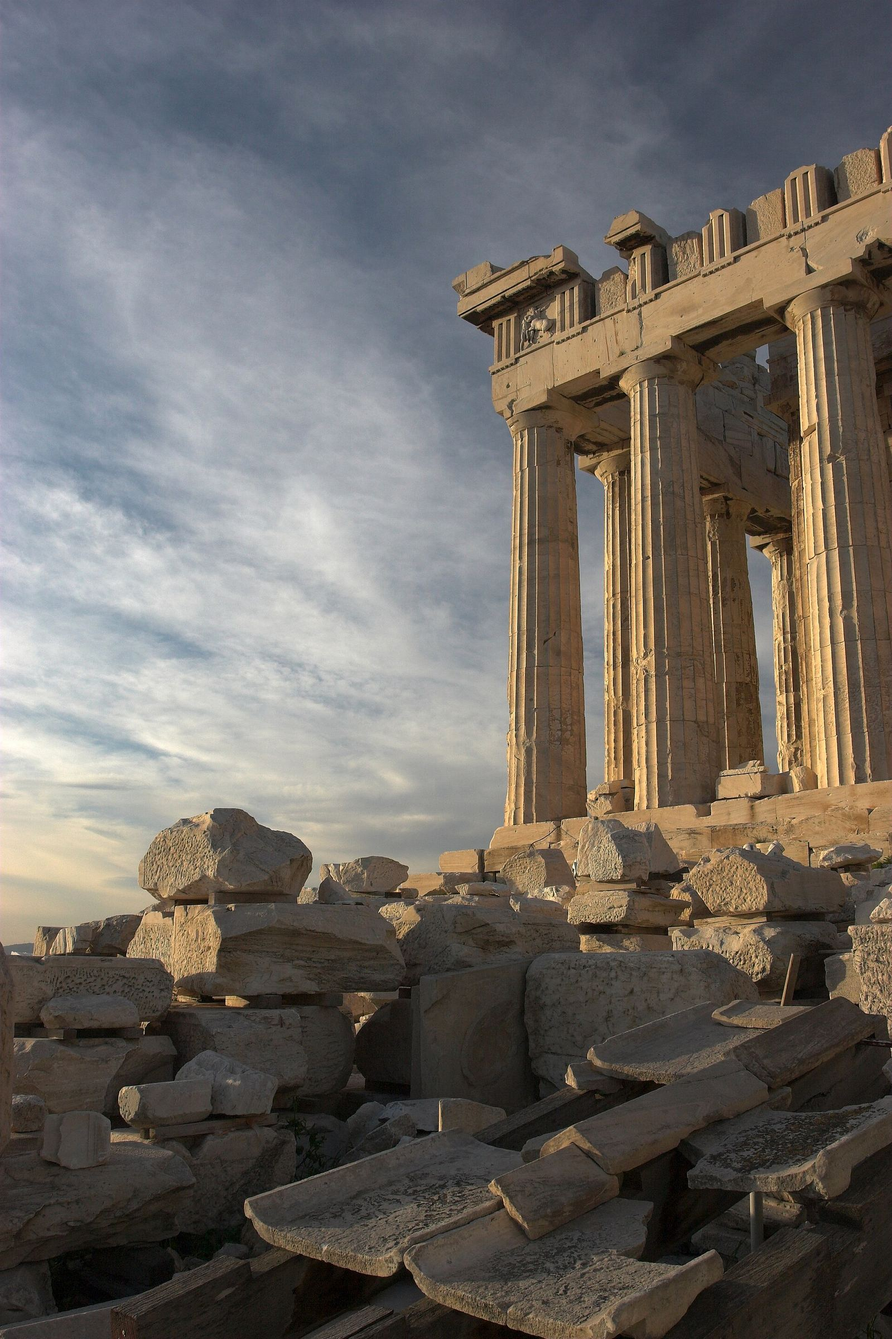
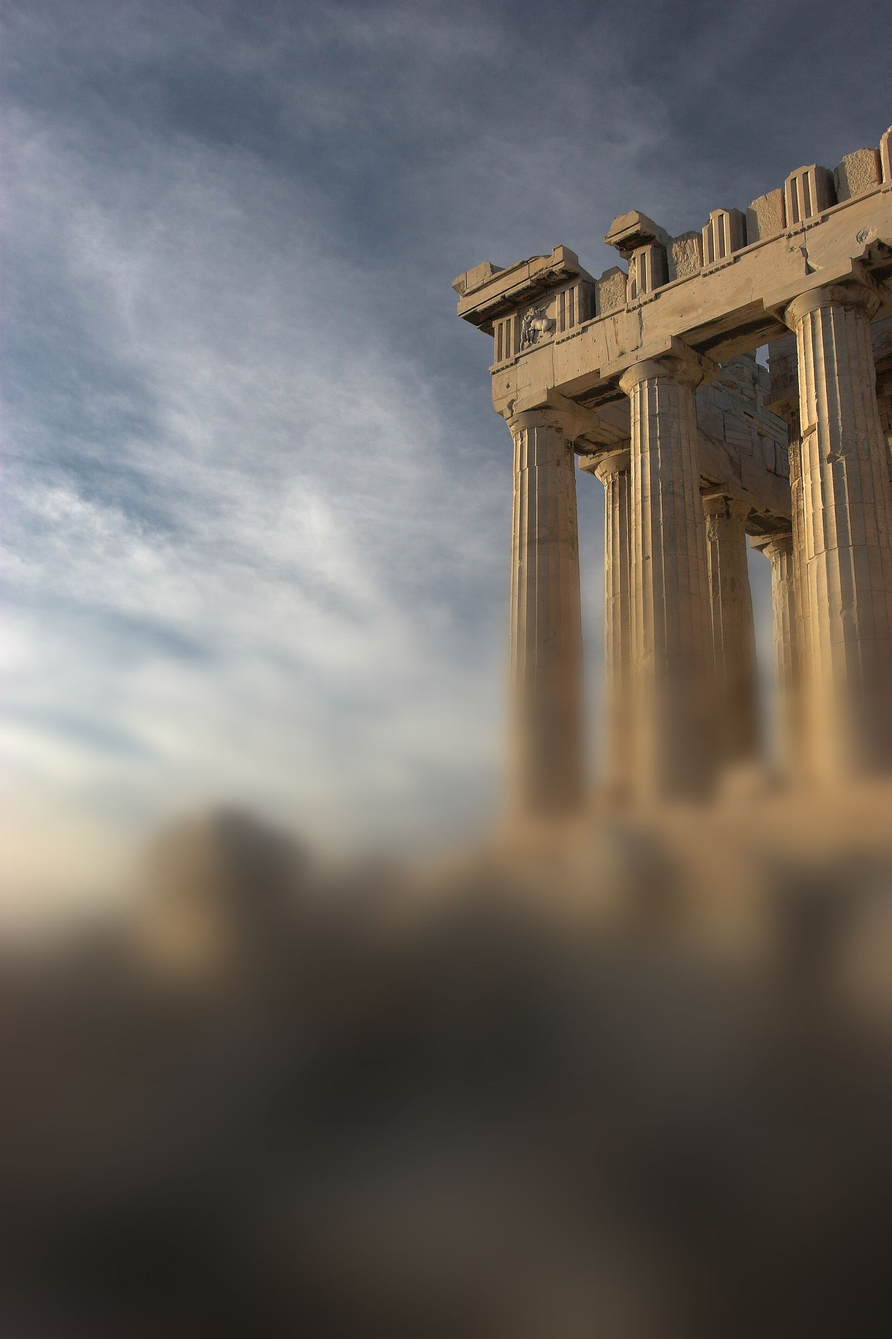
Smooth destination transitions: GPU-only zoom, baked blur, balanced easing
- Card-to-page zoom uses only transform, clip-path and opacity (no layout per frame)
- Depth via a dim layer instead of blurring the whole page live
- Progressive blur baked into background images (no runtime filters, smaller files)
- Balanced easing without the long static tail; reveal starts at 90%
- Preload the background on first touch; cards share the background focal point

Claude-Session: https://claude.ai/code/session_01Cb6r89n6NMiSowsZUC7aWX

Changed region(s): [[0.0, 0.4062, 1.0, 1.0], [0.1226, 0.5312, 0.1839, 0.5625], [0.0919, 0.5625, 0.1226, 0.5938]]

diff --git a/index.html b/index.html
@@ -78,7 +78,7 @@ const CONFIG = {
 
   // Προορισμοί: φωτογραφία, πληροφορίες και εμπειρίες. Οι φωτογραφίες είναι στον φάκελο images/
   regions: [
-    { id: "athens", el: "Αθήνα", en: "Athens", coords: "37.98° N · 23.73° E", image: "images/athens.jpg", background: "images/bg-athens.jpg",
+    { id: "athens", el: "Αθήνα", en: "Athens", coords: "37.98° N · 23.73° E", image: "images/athens.jpg", background: "images/bg-athens.jpg", backgroundBlurred: true,
       intro: {
         el: "Η πόλη της Ακρόπολης, των ταρατσών με θέα και της Αθηναϊκής Ριβιέρας. Ιδανική για ένα city break με ιστορία, γαστρονομία και θάλασσα σε απόσταση μισής ώρας.",
         en: "The city of the Acropolis, rooftop views and the Athens Riviera. Ideal for a city break with history, great food and the sea half an hour away." },
@@ -100,7 +100,7 @@ const CONFIG = {
           en: { title: "Lycabettus at dusk", text: "The best view over Athens, with cocktails as the city lights come on." } },
       ] },
 
-    { id: "zakynthos", el: "Ζάκυνθος", en: "Zakynthos", coords: "37.78° N · 20.90° E", image: "images/zakynthos.jpg", background: "images/bg-zakynthos.jpg",
+    { id: "zakynthos", el: "Ζάκυνθος", en: "Zakynthos", coords: "37.78° N · 20.90° E", image: "images/zakynthos.jpg", background: "images/bg-zakynthos.jpg", backgroundBlurred: true,
       intro: {
         el: "Το νησί του Ναυαγίου, των Γαλάζιων Σπηλιών και των θαλάσσιων χελωνών. Τα καλύτερα σημεία του φαίνονται από τη θάλασσα, με ιδιωτικό σκάφος.",
         en: "The island of Navagio, the Blue Caves and the sea turtles. Its best spots are seen from the water, on a private boat." },
@@ -122,7 +122,7 @@ const CONFIG = {
           en: { title: "Gerakas & sea turtles", text: "The protected beach where Caretta caretta turtles nest, with a guide who follows the marine park rules." } },
       ] },
 
-    { id: "crete", el: "Κρήτη", en: "Crete", coords: "35.34° N · 25.13° E", image: "images/crete.jpg", background: "images/bg-crete.jpg", backgroundPosition: "57% 50%",
+    { id: "crete", el: "Κρήτη", en: "Crete", coords: "35.34° N · 25.13° E", image: "images/crete.jpg", background: "images/bg-crete.jpg", backgroundBlurred: true, backgroundPosition: "57% 50%",
       intro: {
         el: "Το μεγαλύτερο ελληνικό νησί: μινωικά ανάκτορα, φαράγγια, λιμνοθάλασσες και μια από τις καλύτερες κουζίνες της Μεσογείου.",
         en: "Greece's largest island: Minoan palaces, gorges, lagoons and one of the best kitchens in the Mediterranean." },
@@ -530,11 +530,13 @@ html.on-photo .topbar .wordmark svg { color: #fff; }
 .region-top .eyebrow { color: rgba(255, 255, 255, .92); text-shadow: 0 1px 8px rgba(0, 0, 0, .35); }
 .back { height: 2.4rem; padding: 0 .95rem 0 .7rem; border-radius: 999px; display: inline-flex; align-items: center; gap: .35rem; font-size: .82rem; font-weight: 600; }
 .back svg { width: 1rem; height: 1rem; transform: scaleX(-1); }
-.region-title { padding: 33vh 0 1.4rem; padding-top: 33svh; color: #fff; text-shadow: 0 2px 20px rgba(0, 0, 0, .38); animation: riseSoft 1.1s .75s cubic-bezier(.16,1,.3,1) both; }
+.region-title { padding: 33vh 0 1.4rem; padding-top: 33svh; color: #fff; text-shadow: 0 2px 20px rgba(0, 0, 0, .38); opacity: 0; }
 .region-title h1 { font-family: var(--font-display); font-weight: 400; font-size: 3.2rem; line-height: 1; margin: 0; text-wrap: balance; }
 .region-title span { display: block; font-size: .72rem; letter-spacing: .14em; margin-top: .6rem; opacity: .92; font-variant-numeric: tabular-nums; }
-.region-panel { border-radius: 2rem; padding: 1.4rem 1.2rem 1.3rem; overflow: hidden; animation: riseSoft 1.2s .9s cubic-bezier(.16,1,.3,1) both; }
-@keyframes riseSoft { from { opacity: .001; transform: translateY(1.4rem); filter: blur(6px); } to { opacity: 1; transform: none; filter: none; } }
+.region-panel { border-radius: 2rem; padding: 1.4rem 1.2rem 1.3rem; overflow: hidden; opacity: 0; }
+#regionView.revealed .region-title { animation: riseSoft .9s cubic-bezier(.16,1,.3,1) both; }
+#regionView.revealed .region-panel { animation: riseSoft 1s .12s cubic-bezier(.16,1,.3,1) both; }
+@keyframes riseSoft { from { opacity: 0; transform: translate3d(0, 1.4rem, 0); } to { opacity: 1; transform: none; } }
 .region-panel .section { margin-top: 1.9rem; }
 .region-panel .rail { margin-inline: -1.2rem; padding-inline: 1.2rem; }
 .region-panel .btn-block { margin-top: 1.4rem; }
@@ -544,7 +546,11 @@ html.on-photo .topbar .wordmark svg { color: #fff; }
 .fact small { display: block; font-size: .6rem; letter-spacing: .1em; text-transform: uppercase; color: var(--muted); font-weight: 600; }
 .fact b { display: block; font-size: .8rem; font-weight: 600; margin-top: .2rem; line-height: 1.3; }
 .sheet-photo { aspect-ratio: 16 / 10; border-radius: 1.4rem; margin-bottom: 1.1rem; }
-.flip-clone { position: fixed; z-index: 25; object-fit: cover; pointer-events: none; margin: 0; will-change: left, top, width, height, border-radius, opacity; backface-visibility: hidden; }
+.flip-clone { position: fixed; z-index: 25; object-fit: cover; pointer-events: none; margin: 0; }
+.zoom-clone { position: fixed; left: 0; top: 0; z-index: 26; object-fit: cover; pointer-events: none; margin: 0; max-width: none;
+  transform-origin: 0 0; will-change: transform, clip-path, opacity; backface-visibility: hidden; }
+.zoom-scrim { position: fixed; inset: 0; z-index: 25; pointer-events: none; background: rgba(6, 14, 26, .55); opacity: 0; will-change: opacity; }
+.dest .photo img { object-position: var(--focal, 50% 50%); }
 .privacy { margin: -.4rem 0 0; font-size: .72rem; color: var(--muted); line-height: 1.5; }
 .ak-loading .app, .ak-loading .nav-wrap { opacity: 0; }
 .app, .nav-wrap { transition: opacity .4s ease; }
@@ -964,6 +970,7 @@ html.ak-splash .app, html.ak-splash .nav-wrap { visibility: hidden; }
   const newRef = () => "AK-" + Array.from(crypto.getRandomValues(new Uint8Array(8)), b => "ABCDEFGHJKLMNPQRSTUVWXYZ23456789"[b % 32]).join("");
   const state = { services: [], region: null, guests: 2, ref: newRef(), sent: false };
   let currentRegion = null, pendingFlip = null;
+  const focal = (r) => /^[\d.]+% [\d.]+%$/.test(r?.backgroundPosition || "") ? r.backgroundPosition : "50% 50%";
   const img = (src, alt) => src && /^(https:\/\/|images\/|blob:)/.test(src) ? `<img src="${esc(src)}" alt="${esc(alt)}" loading="eager" decoding="async" onerror="this.remove()">` : "";
 
   /* ── Σελίδα προορισμού ──────────────────────────────────── */
@@ -971,10 +978,12 @@ html.ak-splash .app, html.ak-splash .nav-wrap { visibility: hidden; }
     const r = CONFIG.regions.find(x => x.id === id); if (!r) return;
     const bgSrc = r.background || r.image;                // φόντο σε υψηλή ανάλυση, αλλιώς η φωτογραφία της κάρτας
     const bg = $("#regionPhoto"), src = bgSrc && /^(https:\/\/|images\/|blob:)/.test(bgSrc) ? bgSrc : "";
-    if (bg.dataset.src !== src) {                       // φόντο: καθαρή φωτογραφία + 3 επίπεδα θολώματος
+    if (bg.dataset.src !== src) {
       bg.dataset.src = src;
-      const pos = /^[\d.]+% [\d.]+%$/.test(r.backgroundPosition || "") ? ` style="object-position:${r.backgroundPosition}"` : "";   // ποιο σημείο μένει στο κέντρο
-      bg.innerHTML = (src ? ["sharp", "b1", "b2", "b3"].map(c => `<img class="${c}" src="${esc(src)}" alt="" decoding="async"${pos}>`).join("") : "") + `<span class="shade"></span>`;
+      const pos = ` style="object-position:${focal(r)}"`;   // ποιο σημείο μένει στο κέντρο
+      // Οι αρχικές φωτογραφίες έχουν το θόλωμα έτοιμο μέσα τους (γρήγορο). Για νέες φωτογραφίες από το CMS, θόλωμα με CSS.
+      const layers = r.backgroundBlurred && bgSrc === r.background ? ["sharp"] : ["sharp", "b1", "b2", "b3"];
+      bg.innerHTML = (src ? layers.map(c => `<img class="${c}" src="${esc(src)}" alt="" decoding="async"${pos}>`).join("") : "") + `<span class="shade"></span>`;
     }
     $("#regionView").innerHTML = `
       <div class="region-top">
@@ -1012,7 +1021,7 @@ html.ak-splash .app, html.ak-splash .nav-wrap { visibility: hidden; }
 
   /* Zoom: η φωτογραφία «μεγαλώνει» από την κάρτα και κεντράρεται στη νέα σελίδα */
   // Ρυθμίσεις μετάβασης (ms): μεγαλύτερες τιμές = πιο αργή, πιο «βελούδινη» κίνηση
-  const FLIP = { open: 1300, back: 1100, fade: 450, easing: "cubic-bezier(.16,1,.3,1)" };
+  const FLIP = { open: 1000, back: 900, fade: 420, easing: "cubic-bezier(.35,.1,.25,1)" };
   function flip(fromBox, toBox, fromRect, duration = FLIP.open) {
     const fromImg = fromBox?.querySelector("img"), toImg = toBox?.querySelector("img");
     if (!fromImg || !toImg || matchMedia("(prefers-reduced-motion: reduce)").matches || !toImg.animate) return;
@@ -1033,88 +1042,92 @@ html.ak-splash .app, html.ak-splash .nav-wrap { visibility: hidden; }
     anim.onfinish = done; anim.oncancel = () => { toImg.style.opacity = ""; c.remove(); };
   }
 
-  /* Άνοιγμα προορισμού: η κάρτα «σηκώνεται» από το σημείο όπου βρίσκεται και μεγαλώνει
-     σε όλη την οθόνη, ενώ η αρχική από πίσω απομακρύνεται (βάθος), όπως το άνοιγμα εφαρμογής στο iPhone. */
+  /* Μετάβαση κάρτα ⇄ σελίδα προορισμού (όπως το άνοιγμα εφαρμογής στο iPhone).
+     Κινούνται ΜΟΝΟ transform (μετακίνηση/κλίμακα), clip-path και opacity, που τα εκτελεί η
+     κάρτα γραφικών: καμία αλλαγή μεγέθους ή θολώματος σε πραγματικό χρόνο, άρα χωρίς «κόλλημα».
+     Ένα αντίγραφο της φωτογραφίας σε μέγεθος οθόνης «κόβεται» και μικραίνει ώστε να ταιριάζει
+     ακριβώς στην κάρτα, και ανοίγει σαν παράθυρο. */
   let opening = false;
+  const zoomScrim = () => { const d = document.createElement("div"); d.className = "zoom-scrim"; document.body.appendChild(d); return d; };
+  function windowFrames(C, radius, W, H, offY) {
+    const s = Math.max(C.width / W, C.height / H);                    // κλίμακα ώστε η εικόνα να «γεμίζει» την κάρτα
+    const ix = (W - C.width / s) / 2, iy = (H - C.height / s) / 2;     // αποκοπή στο σχήμα της κάρτας
+    const tx = C.left + C.width / 2 - (W * s) / 2, ty = C.top + C.height / 2 - (H * s) / 2;
+    return [
+      { transform: `translate3d(${tx}px, ${ty}px, 0) scale(${s})`, clipPath: `inset(${iy}px ${ix}px ${iy}px ${ix}px round ${radius / s}px)` },
+      { transform: `translate3d(0px, ${offY}px, 0) scale(1)`, clipPath: `inset(0px 0px 0px 0px round 0px)` },
+    ];
+  }
+  function makeClone(src, r, W, H) {
+    const c = document.createElement("img");
+    c.className = "zoom-clone"; c.alt = ""; c.src = src;
+    Object.assign(c.style, { width: W + "px", height: H + "px", objectPosition: focal(r) });
+    document.body.appendChild(c);
+    return c;
+  }
+  const bgHeight = () => Math.round(innerHeight * 1.18);
+  function preloadBg(id) {                                             // ξεκινά να φορτώνει από το πρώτο άγγιγμα
+    const r = CONFIG.regions.find(x => x.id === id), src = r?.background || r?.image;
+    if (!src || preloadBg[src]) return; const i = new Image(); i.decoding = "async"; i.src = src; preloadBg[src] = i.decode?.().catch(() => {});
+  }
   function openRegion(card) {
     const id = card.dataset.region, r = CONFIG.regions.find(x => x.id === id);
     const photo = card.querySelector(".photo"), im = photo?.querySelector("img");
     if (opening) return;
     if (!r || !im || !im.animate || matchMedia("(prefers-reduced-motion: reduce)").matches) { location.hash = id; return; }
-    opening = true;
-    const hi = r.background || r.image; if (hi) { const pre = new Image(); pre.src = hi; }      // προφόρτωση υψηλής ανάλυσης
-    const a = photo.getBoundingClientRect();                                                    // η θέση της κάρτας ΤΩΡΑ
-    const ra = getComputedStyle(photo).borderTopLeftRadius, pa = getComputedStyle(im).objectPosition;
-    const pb = /^[\d.]+% [\d.]+%$/.test(r.backgroundPosition || "") ? r.backgroundPosition : "50% 50%";
-    const H = Math.max(innerHeight * 1.18, innerHeight);
-    const c = im.cloneNode(); c.removeAttribute("onerror"); c.className = "flip-clone"; c.removeAttribute("style");
-    document.body.appendChild(c);
-    card.style.visibility = "hidden";                                                           // η ίδια η κάρτα σηκώνεται
-    const box = (x, y, w, h, rad, pos) => ({ left: x + "px", top: y + "px", width: w + "px", height: h + "px", borderRadius: rad, objectPosition: pos });
-    const grow = c.animate([box(a.left, a.top, a.width, a.height, ra, pa), box(0, 0, innerWidth, H, "0px", pb)],
-      { duration: FLIP.open, easing: FLIP.easing, fill: "forwards" });
-    // βάθος: η αρχική μεγεθύνεται ελαφρά προς την κάρτα, θολώνει και σκουραίνει
-    const app = document.querySelector(".app"), nav = document.querySelector(".nav-wrap");
-    app.style.transformOrigin = `${a.left + a.width / 2}px ${a.top + a.height / 2 + scrollY}px`;
-    const depth = [{ transform: "none", filter: "none", opacity: 1 }, { transform: "scale(1.08)", filter: "blur(8px)", opacity: .35 }];
+    opening = true; preloadBg(id);
+    const C = photo.getBoundingClientRect(), rad = parseFloat(getComputedStyle(photo).borderTopLeftRadius) || 0;
+    const W = innerWidth, H = bgHeight();
+    const c = makeClone(im.currentSrc || im.src, r, W, H), sc = zoomScrim();
+    card.style.visibility = "hidden";
     const opts = { duration: FLIP.open, easing: FLIP.easing, fill: "forwards" };
-    const da = app.animate(depth, opts), dn = nav.animate([{ opacity: 1 }, { opacity: 0 }], { ...opts, duration: FLIP.open * .6 });
-    const finish = () => {
-      pendingFlip = { clone: c, cleanup: () => { da.cancel(); dn.cancel(); app.style.transformOrigin = ""; card.style.visibility = ""; opening = false; } };
-      location.hash = id;
-    };
-    grow.onfinish = finish;
-    grow.oncancel = () => { c.remove(); da.cancel(); dn.cancel(); card.style.visibility = ""; opening = false; };
+    const grow = c.animate(windowFrames(C, rad, W, H, 0), opts);
+    const dim = sc.animate([{ opacity: 0 }, { opacity: 1 }], opts);   // βάθος: η αρχική σκουραίνει από πίσω
+    // η σελίδα αρχίζει να εμφανίζεται στο τελευταίο 10% της κίνησης: χωρίς «νεκρό» χρόνο
+    const t = setTimeout(() => { pendingFlip = { clone: c, scrim: sc, card }; location.hash = id; }, FLIP.open * .9);
+    grow.oncancel = () => { clearTimeout(t); c.remove(); sc.remove(); card.style.visibility = ""; opening = false; };
   }
-  function revealRegion(clone, bg) {
-    const f = pendingFlipCleanup; pendingFlipCleanup = null; f?.();
-    const sharp = bg.querySelector("img.sharp");
-    bg.classList.add("settling");
-    const fadeOut = () => {
-      const fa = clone.animate([{ opacity: 1 }, { opacity: 0 }], { duration: FLIP.fade + 250, easing: "ease-out", fill: "forwards" });
-      fa.onfinish = fa.oncancel = () => clone.remove();
-      setTimeout(() => bg.classList.remove("settling"), 120);                 // το θόλωμα απλώνεται καθώς σβήνει ο κλώνος
+  function revealRegion(f, bg) {
+    const view = $("#regionView"), sharp = bg.querySelector("img.sharp");
+    f.card.style.visibility = "";
+    let done = false;
+    const go = () => {
+      if (done) return; done = true;
+      f.scrim.remove();
+      const fo = f.clone.animate([{ opacity: 1 }, { opacity: 0 }], { duration: FLIP.fade, easing: "ease-out", fill: "forwards" });
+      fo.onfinish = fo.oncancel = () => { f.clone.remove(); opening = false; };
+      view.classList.add("revealed");                                // ο τίτλος και το πάνελ ανεβαίνουν
     };
-    if (!sharp) return fadeOut();
-    let done = false; const go = () => { if (!done) { done = true; fadeOut(); } };
-    (sharp.decode ? sharp.decode() : Promise.resolve()).then(go, go);         // περιμένουμε να φορτώσει η καθαρή φωτογραφία
-    setTimeout(go, 1500);
+    (preloadBg[bg.dataset.src] || sharp?.decode?.() || Promise.resolve()).then(go, go);
+    setTimeout(go, 1200);
   }
-  let pendingFlipCleanup = null;
-
-  /* Επιστροφή (Back): η φωτογραφία ξαναγίνεται καθαρή, μικραίνει πίσω στη θέση της κάρτας της
-     και η αρχική έρχεται μπροστά από το βάθος (το ακριβώς αντίστροφο του ανοίγματος). */
   function closeRegion() {
-    const id = currentRegion, sharp = $("#regionPhoto img.sharp");
+    const id = currentRegion, r = CONFIG.regions.find(x => x.id === id);
+    const cardImg = document.querySelector(`#regions [data-region="${id}"] img`), bg = $("#regionPhoto");
     if (opening) return;
-    if (!id || !sharp || !sharp.animate || matchMedia("(prefers-reduced-motion: reduce)").matches) { location.hash = "home"; return; }
+    if (!r || !cardImg || !cardImg.animate || matchMedia("(prefers-reduced-motion: reduce)").matches) { location.hash = "home"; return; }
     opening = true;
-    const a = sharp.getBoundingClientRect(), pos = getComputedStyle(sharp).objectPosition;
-    const c = sharp.cloneNode(); c.className = "flip-clone"; c.removeAttribute("style");
-    Object.assign(c.style, { left: a.left + "px", top: a.top + "px", width: a.width + "px", height: a.height + "px", borderRadius: "0px", objectPosition: pos, opacity: "0" });
-    document.body.appendChild(c);
-    // 1. η σελίδα «καθαρίζει» σε καθαρή φωτογραφία (το θόλωμα και το πάνελ σβήνουν από κάτω)
-    const fi = c.animate([{ opacity: 0 }, { opacity: 1 }], { duration: 280, easing: "ease-out", fill: "forwards" });
-    fi.onfinish = () => { pendingFlip = { closeClone: c, id, rect: a, pos }; location.hash = "home"; };
+    const W = innerWidth, H = bgHeight(), offY = bg.getBoundingClientRect().top;
+    const c = makeClone(cardImg.currentSrc || cardImg.src, r, W, H);
+    c.style.transform = `translate3d(0px, ${offY}px, 0)`; c.style.opacity = "0";
+    // 1. η σελίδα «καθαρίζει» σε καθαρή φωτογραφία
+    const fi = c.animate([{ opacity: 0 }, { opacity: 1 }], { duration: 260, easing: "ease-out", fill: "forwards" });
+    fi.onfinish = () => { pendingFlip = { closeClone: c, id, offY }; location.hash = "home"; };
     fi.oncancel = () => { c.remove(); opening = false; };
   }
-  function shrinkToCard(clone, card, a, pa) {
-    const photo = card?.querySelector(".photo"), im = photo?.querySelector("img");
-    const end = () => { clone.remove(); opening = false; };
-    if (!photo || !im) { const fo = clone.animate([{ opacity: 1 }, { opacity: 0 }], { duration: 300, fill: "forwards" }); fo.onfinish = end; return; }
-    const b = photo.getBoundingClientRect(), rb = getComputedStyle(photo).borderTopLeftRadius, pb = getComputedStyle(im).objectPosition;
-    card.style.visibility = "hidden";
-    const box = (r, rad, p) => ({ left: r.left + "px", top: r.top + "px", width: r.width + "px", height: r.height + "px", borderRadius: rad, objectPosition: p });
+  function shrinkToCard(f) {
+    const card = document.querySelector(`#regions [data-region="${f.id}"]`), photo = card?.querySelector(".photo"), c = f.closeClone;
+    const end = () => { c.remove(); opening = false; };
+    if (!photo) { const fo = c.animate([{ opacity: 1 }, { opacity: 0 }], { duration: 300, fill: "forwards" }); fo.onfinish = end; return; }
+    const C = photo.getBoundingClientRect(), rad = parseFloat(getComputedStyle(photo).borderTopLeftRadius) || 0;
+    const fr = windowFrames(C, rad, innerWidth, bgHeight(), f.offY).reverse();
+    const sc = zoomScrim(); card.style.visibility = "hidden";
     const opts = { duration: FLIP.back, easing: FLIP.easing, fill: "forwards" };
-    const sh = clone.animate([box(a, "0px", pa), box(b, rb, pb)], opts);
-    // βάθος: η αρχική έρχεται μπροστά (από μεγεθυσμένη, θολή και σκοτεινή σε κανονική)
-    const app = document.querySelector(".app"), nav = document.querySelector(".nav-wrap");
-    app.style.transformOrigin = `${b.left + b.width / 2}px ${b.top + b.height / 2 + scrollY}px`;
-    const da = app.animate([{ transform: "scale(1.08)", filter: "blur(8px)", opacity: .35 }, { transform: "none", filter: "none", opacity: 1 }], opts);
-    const dn = nav.animate([{ opacity: 0 }, { opacity: 1 }], { ...opts, fill: "both", delay: FLIP.back * .35, duration: FLIP.back * .65 });
+    const sh = c.animate(fr, opts);
+    const lit = sc.animate([{ opacity: 1 }, { opacity: 0 }], opts);   // η αρχική έρχεται μπροστά από το σκοτάδι
     sh.onfinish = sh.oncancel = () => {
-      card.style.visibility = ""; da.cancel(); dn.cancel(); app.style.transformOrigin = "";
-      const fo = clone.animate([{ opacity: 1 }, { opacity: 0 }], { duration: 160, fill: "forwards" }); fo.onfinish = fo.oncancel = end;
+      card.style.visibility = ""; sc.remove();
+      const fo = c.animate([{ opacity: 1 }, { opacity: 0 }], { duration: 140, fill: "forwards" }); fo.onfinish = fo.oncancel = end;
     };
   }
 
@@ -1183,7 +1196,7 @@ html.ak-splash .app, html.ak-splash .nav-wrap { visibility: hidden; }
 
     $("#regions").innerHTML = CONFIG.regions.map(r => `
       <button class="dest glass" type="button" data-region="${r.id}">
-        <span class="photo">${img(r.image, r[lang])}
+        <span class="photo" style="--focal:${focal(r)}">${img(r.image, r[lang])}
           <span class="caption"><b>${esc(r[lang])}</b><span>${r.coords}</span></span></span>
       </button>`).join("");
     const cr = CONFIG.photoCredits || [];
@@ -1220,7 +1233,7 @@ html.ak-splash .app, html.ak-splash .nav-wrap { visibility: hidden; }
     const isRegion = CONFIG.regions.some(r => r.id === h);
     const v = isRegion ? "region" : VIEWS.includes(h) ? h : "home";
     currentRegion = isRegion ? h : null;
-    if (isRegion) renderRegion(h);
+    if (isRegion) { $("#regionView").classList.remove("revealed"); renderRegion(h); }
     document.querySelectorAll(".view").forEach(el => el.classList.toggle("is-active", el.dataset.view === v));
     const navV = isRegion ? "home" : v;
     document.querySelectorAll("#nav a").forEach(a => {
@@ -1232,14 +1245,12 @@ html.ak-splash .app, html.ak-splash .nav-wrap { visibility: hidden; }
     bg.hidden = !isRegion;
     document.documentElement.classList.toggle("on-photo", isRegion && !!bg.dataset.src);
     const f = pendingFlip; pendingFlip = null;
-    if (f?.cleanup) pendingFlipCleanup = f.cleanup;
     if (f && f.closeClone && v === "home") {
-      const card = document.querySelector(`#regions [data-region="${f.id}"]`);
-      card?.scrollIntoView({ block: "center", inline: "center", behavior: "instant" });
-      shrinkToCard(f.closeClone, card, f.rect, f.pos);
+      document.querySelector(`#regions [data-region="${f.id}"]`)?.scrollIntoView({ block: "center", inline: "center", behavior: "instant" });
+      shrinkToCard(f);
     } else {
       if (silent !== true) window.scrollTo(0, 0);
-      if (f && f.clone && isRegion) revealRegion(f.clone, bg);   // η κάρτα έχει ήδη ανοίξει: αποκάλυψη της σελίδας
+      if (isRegion) { if (f && f.clone) revealRegion(f, bg); else $("#regionView").classList.add("revealed"); }
     }
     if (silent !== true) track("/#" + (isRegion ? h : v));
   }
@@ -1363,6 +1374,7 @@ html.ak-splash .app, html.ak-splash .nav-wrap { visibility: hidden; }
   function setGuests(n) { state.guests = Math.min(99, Math.max(1, n)); $("#fGuests").textContent = state.guests; updateSendLinks(); }
 
   /* ── Events ─────────────────────────────────────────────── */
+  document.addEventListener("pointerdown", (e) => { const d = e.target.closest("[data-region]"); if (d) preloadBg(d.dataset.region); }, { passive: true });
   document.addEventListener("click", (e) => {
     const o = e.target.closest("[data-open]"); if (o) return serviceSheet(o.dataset.open);
     const c = e.target.closest("[data-copy]"); if (c) { e.preventDefault(); return copy(c.dataset.copy); }

diff --git a/images/bake_backgrounds.py b/images/bake_backgrounds.py
@@ -1,0 +1,18 @@
+import sys, os, numpy as np
+from PIL import Image, ImageOps, ImageFilter
+src_dir, out_dir = sys.argv[1], sys.argv[2]
+LAYERS = [(5, .34, .54), (14, .48, .70), (30, .62, .84)]     # (θόλωμα σε CSS px, αρχή, πλήρες) όπως πριν στο CSS
+CSS_H = 784                                                  # ύψος φόντου σε κινητό (118svh)
+def smooth(x): x = np.clip(x, 0, 1); return x * x * (3 - 2 * x)
+for k, box, q in [('athens', (1600, 2400), 80), ('zakynthos', (1600, 2400), 80), ('crete', (2800, 1600), 76)]:
+    im = ImageOps.exif_transpose(Image.open(f'{src_dir}/{k}.jpg')).convert('RGB'); im.thumbnail(box, Image.LANCZOS)
+    W, H = im.size; scale = H / CSS_H
+    out = np.asarray(im, dtype=np.float32)
+    y = (np.arange(H) / (H - 1))[:, None, None]
+    for sig, a, b in LAYERS:
+        bl = np.asarray(im.filter(ImageFilter.GaussianBlur(sig * scale)), dtype=np.float32)
+        m = smooth((y - a) / (b - a))
+        out = out * (1 - m) + bl * m
+    p = f'{out_dir}/bg-{k}.jpg'
+    Image.fromarray(np.clip(out, 0, 255).astype(np.uint8)).save(p, quality=q, optimize=True, progressive=True)
+    print(k, (W, H), os.path.getsize(p) // 1024, 'KB')
